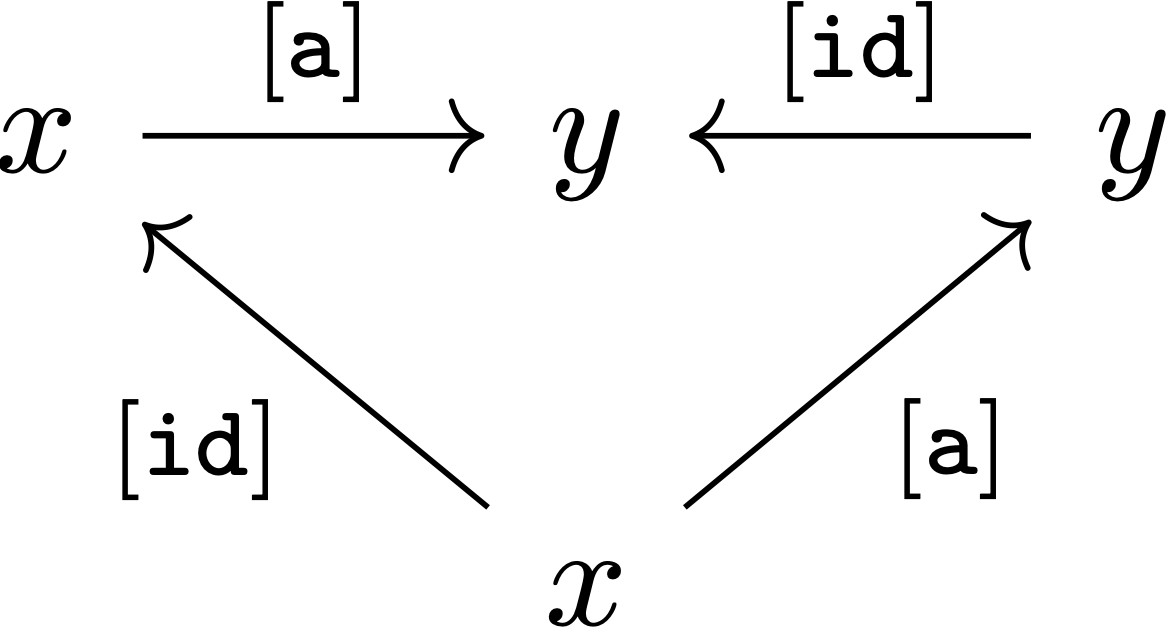
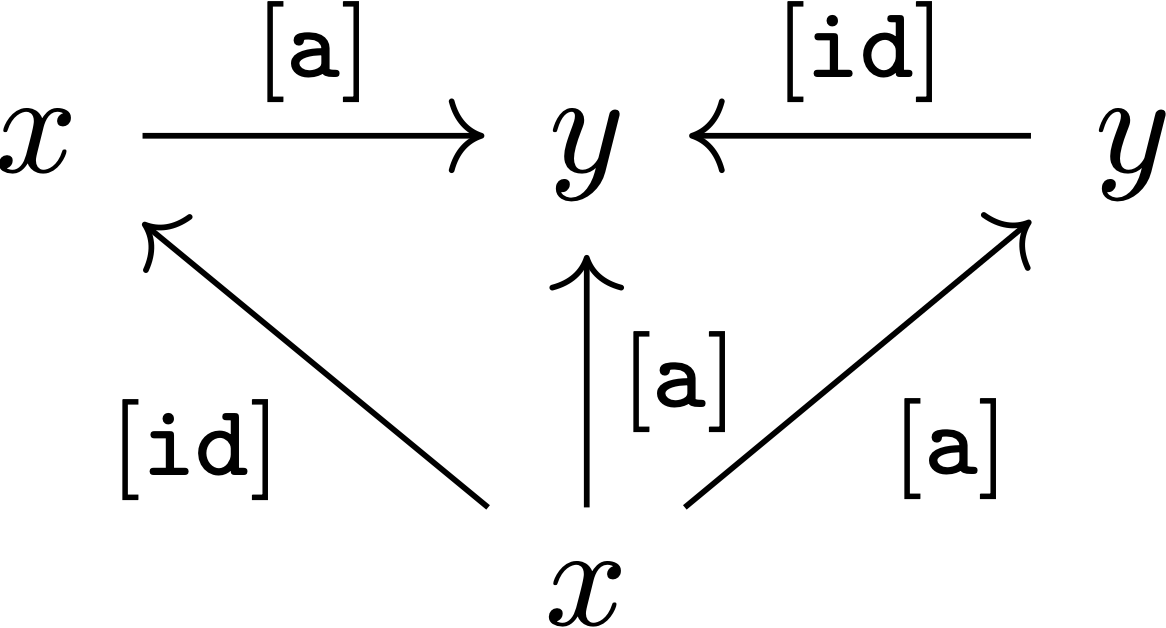
updated site

Changed region(s): [[0.4631, 0.3933, 0.6484, 0.8169], [0.5866, 0.5143, 0.6175, 0.5446]]

diff --git a/index.html b/index.html
@@ -1920,7 +1920,7 @@ mmlang&gt; <span style="color:#00D">1</span>[plus,<span style="color:#00D">1</sp
 </tr>
 <tr>
 <td class="tableblock halign-center valign-top"><p class="tableblock"><code>(a + b) * c = (a * c) + (b * c)</code></p></td>
-<td class="tableblock halign-left valign-top"><p class="tableblock">&nbsp;</p></td>
+<td class="tableblock halign-left valign-top"><p class="tableblock"><span class="image"><a class="image" href="images/language/multiplicative-right-distributivity.png"><img src="./images/language/multiplicative-right-distributivity.png" alt="multiplicative right distributivity"></a></span></p></td>
 <td class="tableblock halign-left valign-top"><div class="content"><div class="listingblock small">
 <div class="content">
 <pre class="CodeRay highlight"><code data-lang="python">mmlang&gt; <span style="color:#00D">1</span>&lt;&lt;[plus,<span style="color:#00D">1</span>],[mult,<span style="color:#00D">2</span>]&gt;;[mult,<span style="color:#00D">3</span>]&gt;
@@ -1932,7 +1932,7 @@ mmlang&gt; <span style="color:#00D">1</span>&lt;&lt;[plus,<span style="color:#00
 </tr>
 <tr>
 <td class="tableblock halign-center valign-top"><p class="tableblock"><code>a * (b + c) = (a * b) + (a * c)</code></p></td>
-<td class="tableblock halign-left valign-top"><p class="tableblock">&nbsp;</p></td>
+<td class="tableblock halign-left valign-top"><p class="tableblock"><span class="image"><a class="image" href="images/language/multiplicative-left-distributivity.png"><img src="./images/language/multiplicative-left-distributivity.png" alt="multiplicative left distributivity"></a></span></p></td>
 <td class="tableblock halign-left valign-top"><div class="content"><div class="listingblock small">
 <div class="content">
 <pre class="CodeRay highlight"><code data-lang="python">mmlang&gt; <span style="color:#00D">1</span>&lt;[plus,<span style="color:#00D">1</span>];&lt;[mult,<span style="color:#00D">2</span>],[mult,<span style="color:#00D">3</span>]&gt;&gt;

diff --git a/language.html b/language.html
@@ -1646,7 +1646,7 @@ mmlang&gt; 1[plus,1]
 </tr>
 <tr>
 <td class="tableblock halign-center valign-top"><p class="tableblock"><code>(a + b) * c = (a * c) + (b * c)</code></p></td>
-<td class="tableblock halign-left valign-top"><p class="tableblock">&nbsp;</p></td>
+<td class="tableblock halign-left valign-top"><p class="tableblock"><span class="image"><a class="image" href="images/language/multiplicative-right-distributivity.png"><img src="./images/language/multiplicative-right-distributivity.png" alt="multiplicative right distributivity"></a></span></p></td>
 <td class="tableblock halign-left valign-top"><div class="content"><div class="listingblock small">
 <div class="content">
 <pre class="highlight"><code>mmlang&gt; 1&lt;&lt;[plus,1],[mult,2]&gt;;[mult,3]&gt;
@@ -1658,7 +1658,7 @@ mmlang&gt; 1&lt;&lt;[plus,1];[mult,3]&gt;,&lt;[mult,2];[mult,3]&gt;&gt;
 </tr>
 <tr>
 <td class="tableblock halign-center valign-top"><p class="tableblock"><code>a * (b + c) = (a * b) + (a * c)</code></p></td>
-<td class="tableblock halign-left valign-top"><p class="tableblock">&nbsp;</p></td>
+<td class="tableblock halign-left valign-top"><p class="tableblock"><span class="image"><a class="image" href="images/language/multiplicative-left-distributivity.png"><img src="./images/language/multiplicative-left-distributivity.png" alt="multiplicative left distributivity"></a></span></p></td>
 <td class="tableblock halign-left valign-top"><div class="content"><div class="listingblock small">
 <div class="content">
 <pre class="highlight"><code>mmlang&gt; 1&lt;[plus,1];&lt;[mult,2],[mult,3]&gt;&gt;
@@ -1772,7 +1772,7 @@ mmlang&gt; 1&lt;[plus,1];[mult,2]&gt;
 </div>
 <div id="footer">
 <div id="footer-text">
-Last updated 2020-05-17 16:50:29 -0600
+Last updated 2020-05-17 17:14:22 -0600
 </div>
 </div>
 </body>
